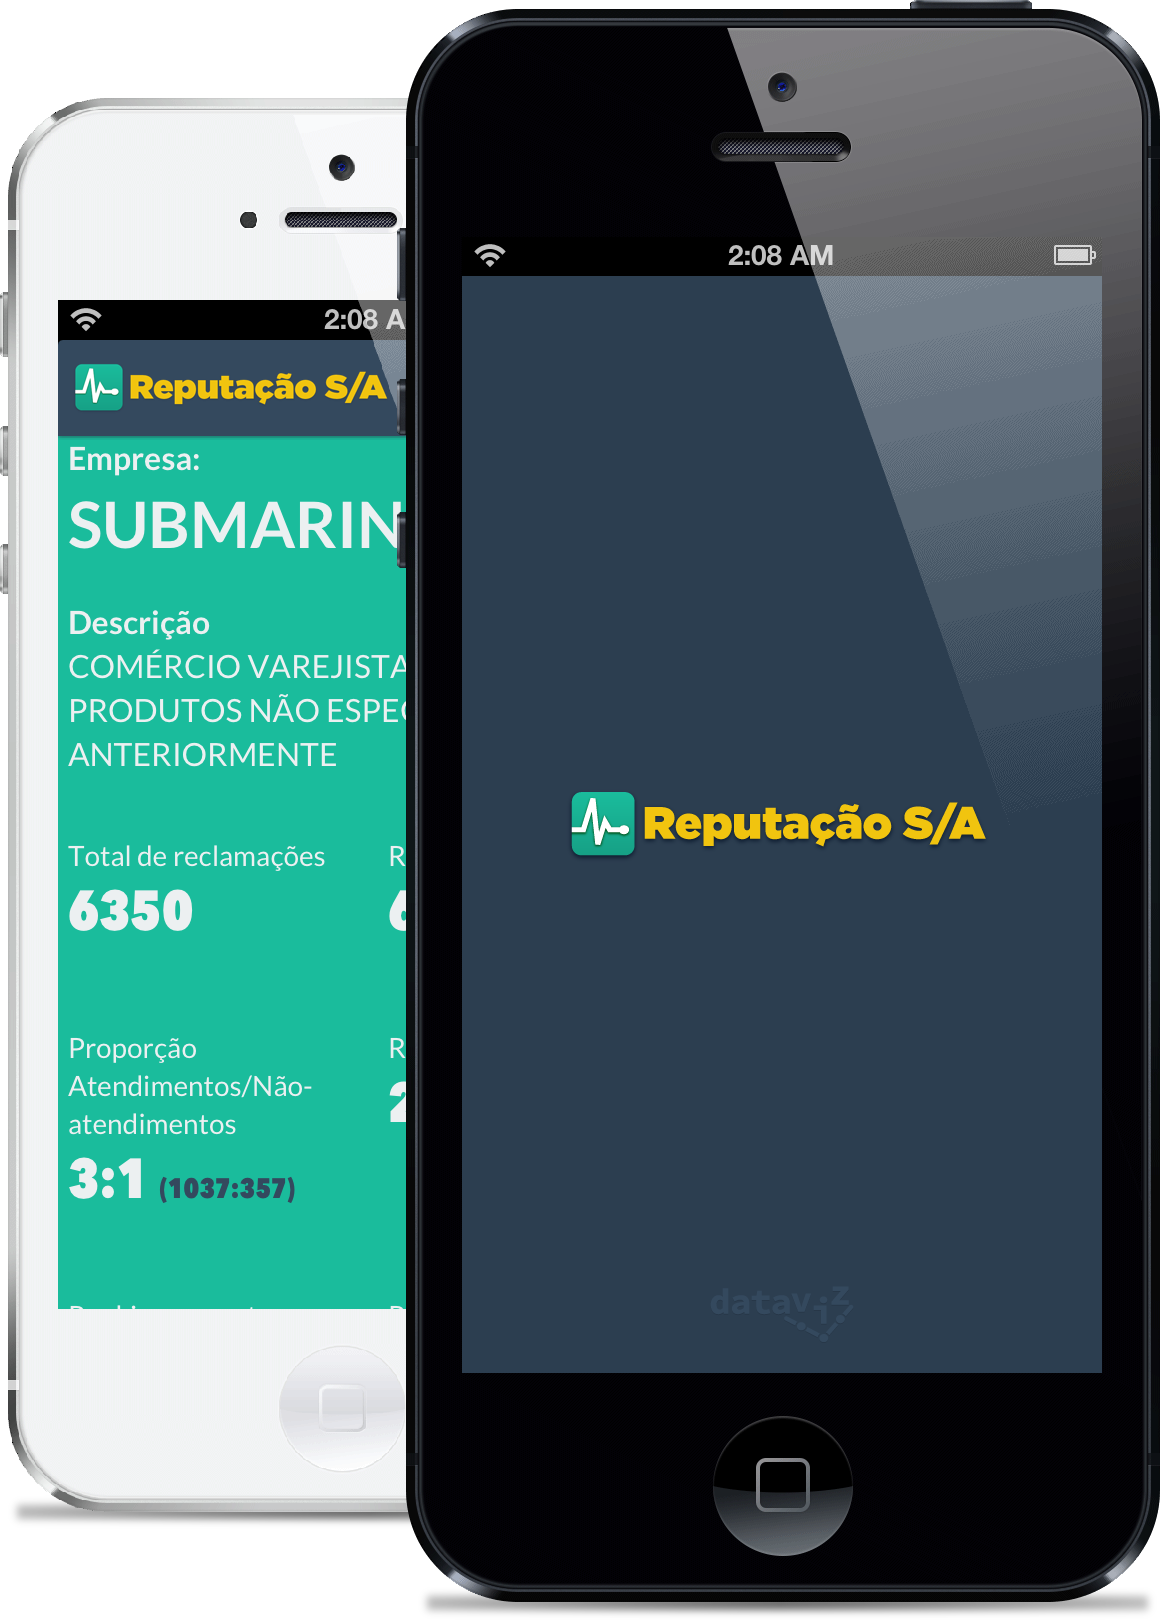
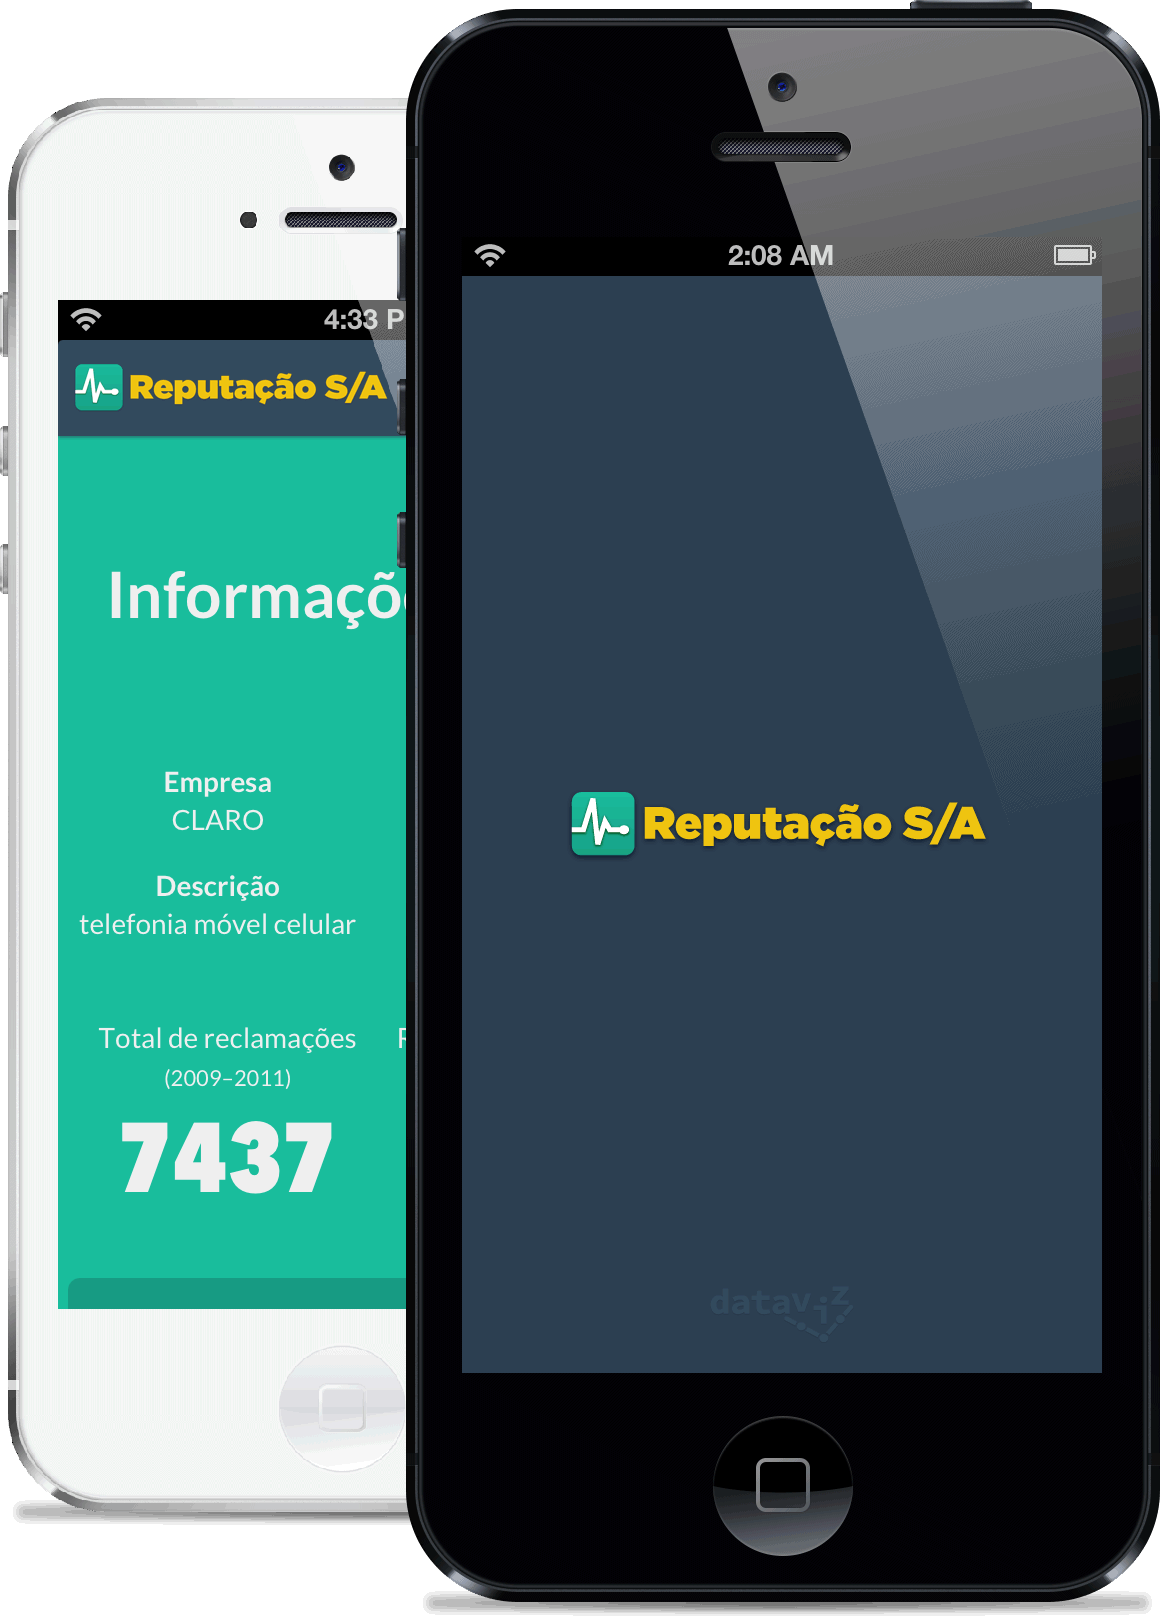
Arruma texto no show company e modifica imagem principal

diff --git a/app/assets/stylesheets/style.css.scss b/app/assets/stylesheets/style.css.scss
@@ -325,6 +325,9 @@ footer {
     margin-bottom: 10px;
     font-size: .875em;
     text-align: center;
+    &.solved-unsolved-ratio {
+      width: 100%;
+    }
     &:nth-child(2n+2) {
       padding: 0 0 0 5px;
     }
